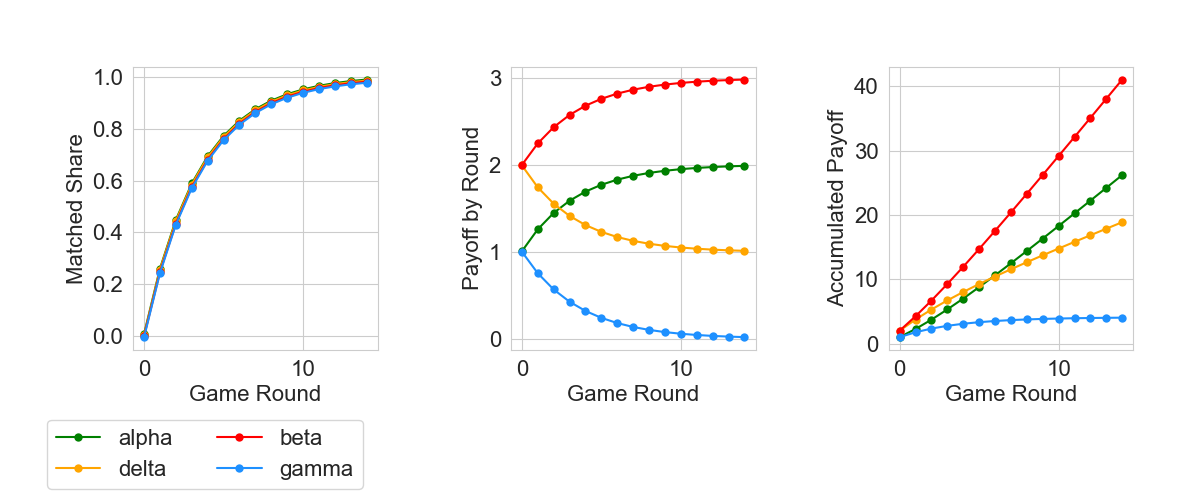
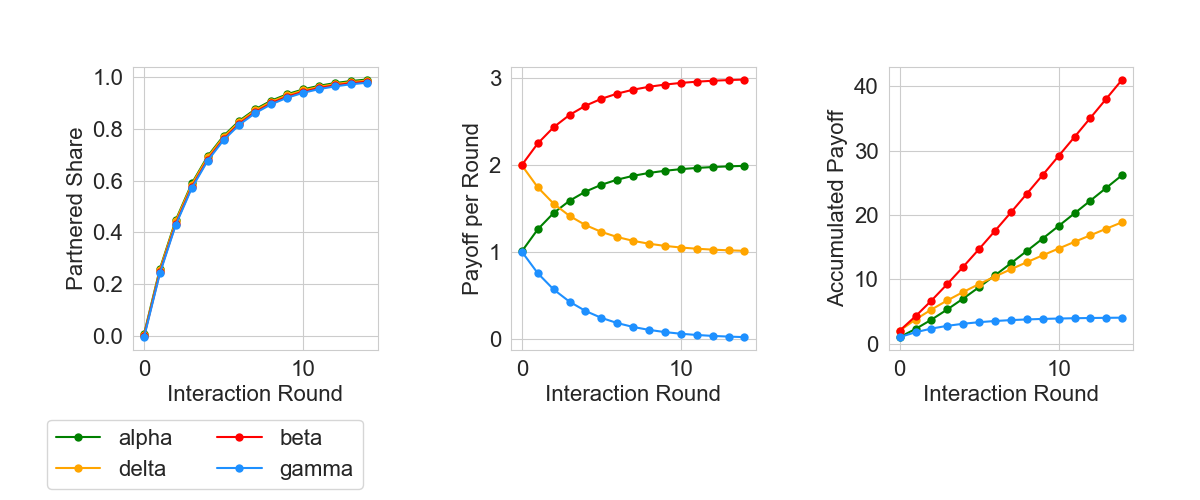
updated fig. 1 and fig. 2

diff --git a/src/visualization_1.py b/src/visualization_1.py
@@ -74,12 +74,12 @@ def visualize_interaction_process(generation=0, learning_step=0):
     fig, axes = plt.subplots(1, 3, figsize=(12, 5))
     axes = axes.flatten()
 
-    axes[0].set_ylabel("Matched Share")
-    axes[0].set_xlabel("Game Round")
-    axes[1].set_ylabel("Payoff by Round")
-    axes[1].set_xlabel("Game Round")
+    axes[0].set_ylabel("Partnered Share")
+    axes[0].set_xlabel("Interaction Round")
+    axes[1].set_ylabel("Payoff per Round")
+    axes[1].set_xlabel("Interaction Round")
     axes[2].set_ylabel("Accumulated Payoff")
-    axes[2].set_xlabel("Game Round")
+    axes[2].set_xlabel("Interaction Round")
 
     # Create the plots using the custom palette
     line1 = sns.lineplot(data=visualization_df, x="game_round", y="matched_share", hue="behavior", 
@@ -117,6 +117,7 @@ def visualize_learning_process(generation=0):
     behaviors = ["alpha", "beta", "gamma", "delta"]
 
     for behavior in behaviors:
+        accumulated_payoff = 0
         for learning_step in range(15):
             total_ext = df.loc[(generation, learning_step, 0, "shares"), pd.IndexSlice["externalizing", :, :]].sum()
             total_non_ext = df.loc[(generation, learning_step, 0, "shares"), pd.IndexSlice["non-externalizing", :, :]].sum()
@@ -150,13 +151,15 @@ def visualize_learning_process(generation=0):
                 ].values
             ).sum()/df.loc[(generation, learning_step, 14, "shares"),
                                 pd.IndexSlice["non-externalizing", behavior, :]].sum()
+            accumulated_payoff += end_of_step_payoff
+
+            visualization_df.loc[len(visualization_df)] = [
+                learning_step, behavior, share, share_among_ext, share_among_non_ext, end_of_step_matched, accumulated_payoff
+            ]
+
             payoff_ext_df.loc[(learning_step, "externalizers")] += end_of_step_payoff*share_among_ext
             payoff_ext_df.loc[(learning_step, "non-externalizers")] += end_of_step_payoff*share_among_non_ext
 
-            visualization_df.loc[len(visualization_df)] = [
-                learning_step, behavior, share, share_among_ext, share_among_non_ext, end_of_step_matched, end_of_step_payoff
-            ]
-    
 
     sns.set_style("whitegrid")
     
@@ -185,11 +188,11 @@ def visualize_learning_process(generation=0):
     for ax in axes:
         ax.set_xlabel("Learning Step")
     axes[0].set_ylabel("Share of Population")
-    axes[1].set_ylabel("End of Step Matched Share")
-    axes[2].set_ylabel("Accumulated Payoff Step")
+    axes[1].set_ylabel("End of Step Partnered Share")
+    axes[2].set_ylabel("Accumulated Payoff")
     axes[3].set_ylabel("Share among Externalizers")
     axes[4].set_ylabel("Share among Non-Externalizers")
-    axes[5].set_ylabel("Accumulated Payoff Learning Process")
+    axes[5].set_ylabel("Accumulated Payoff")
 
     # Remove legends from individual plots
     for ax in axes:
